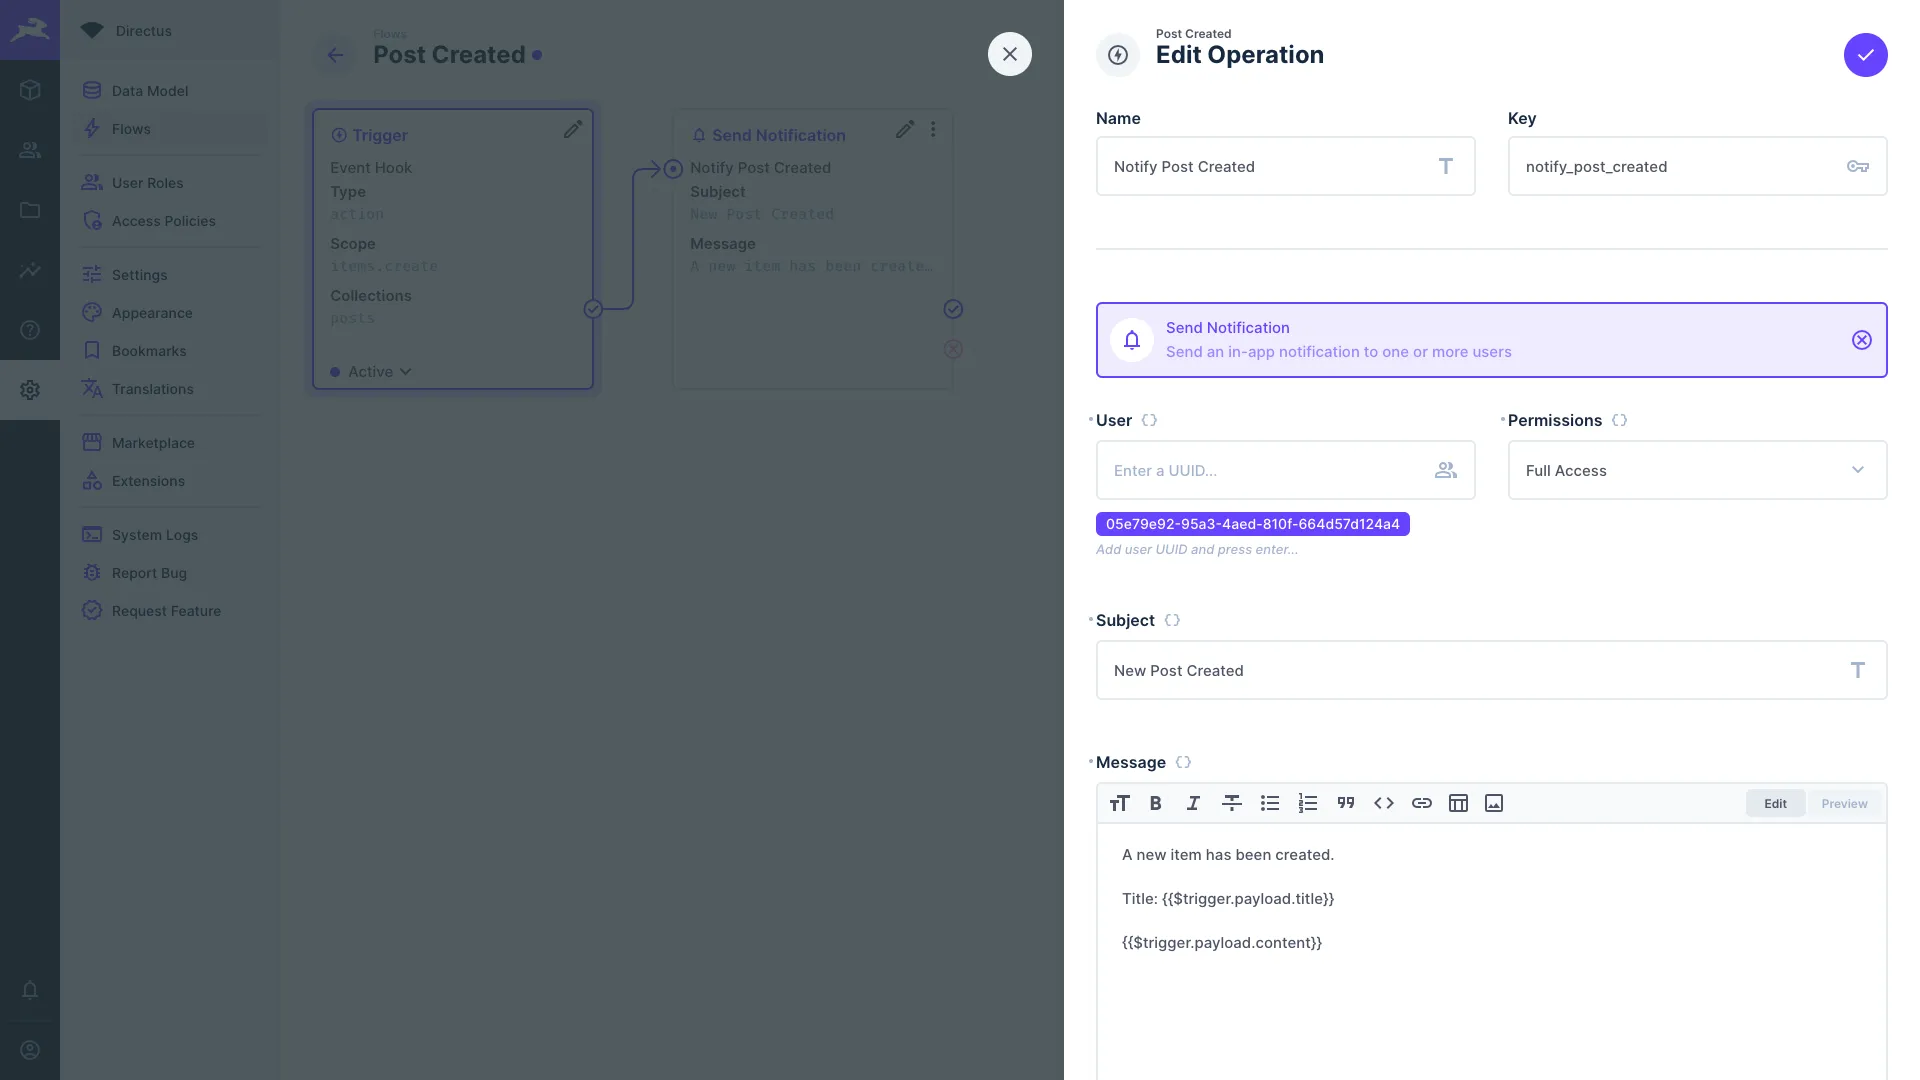
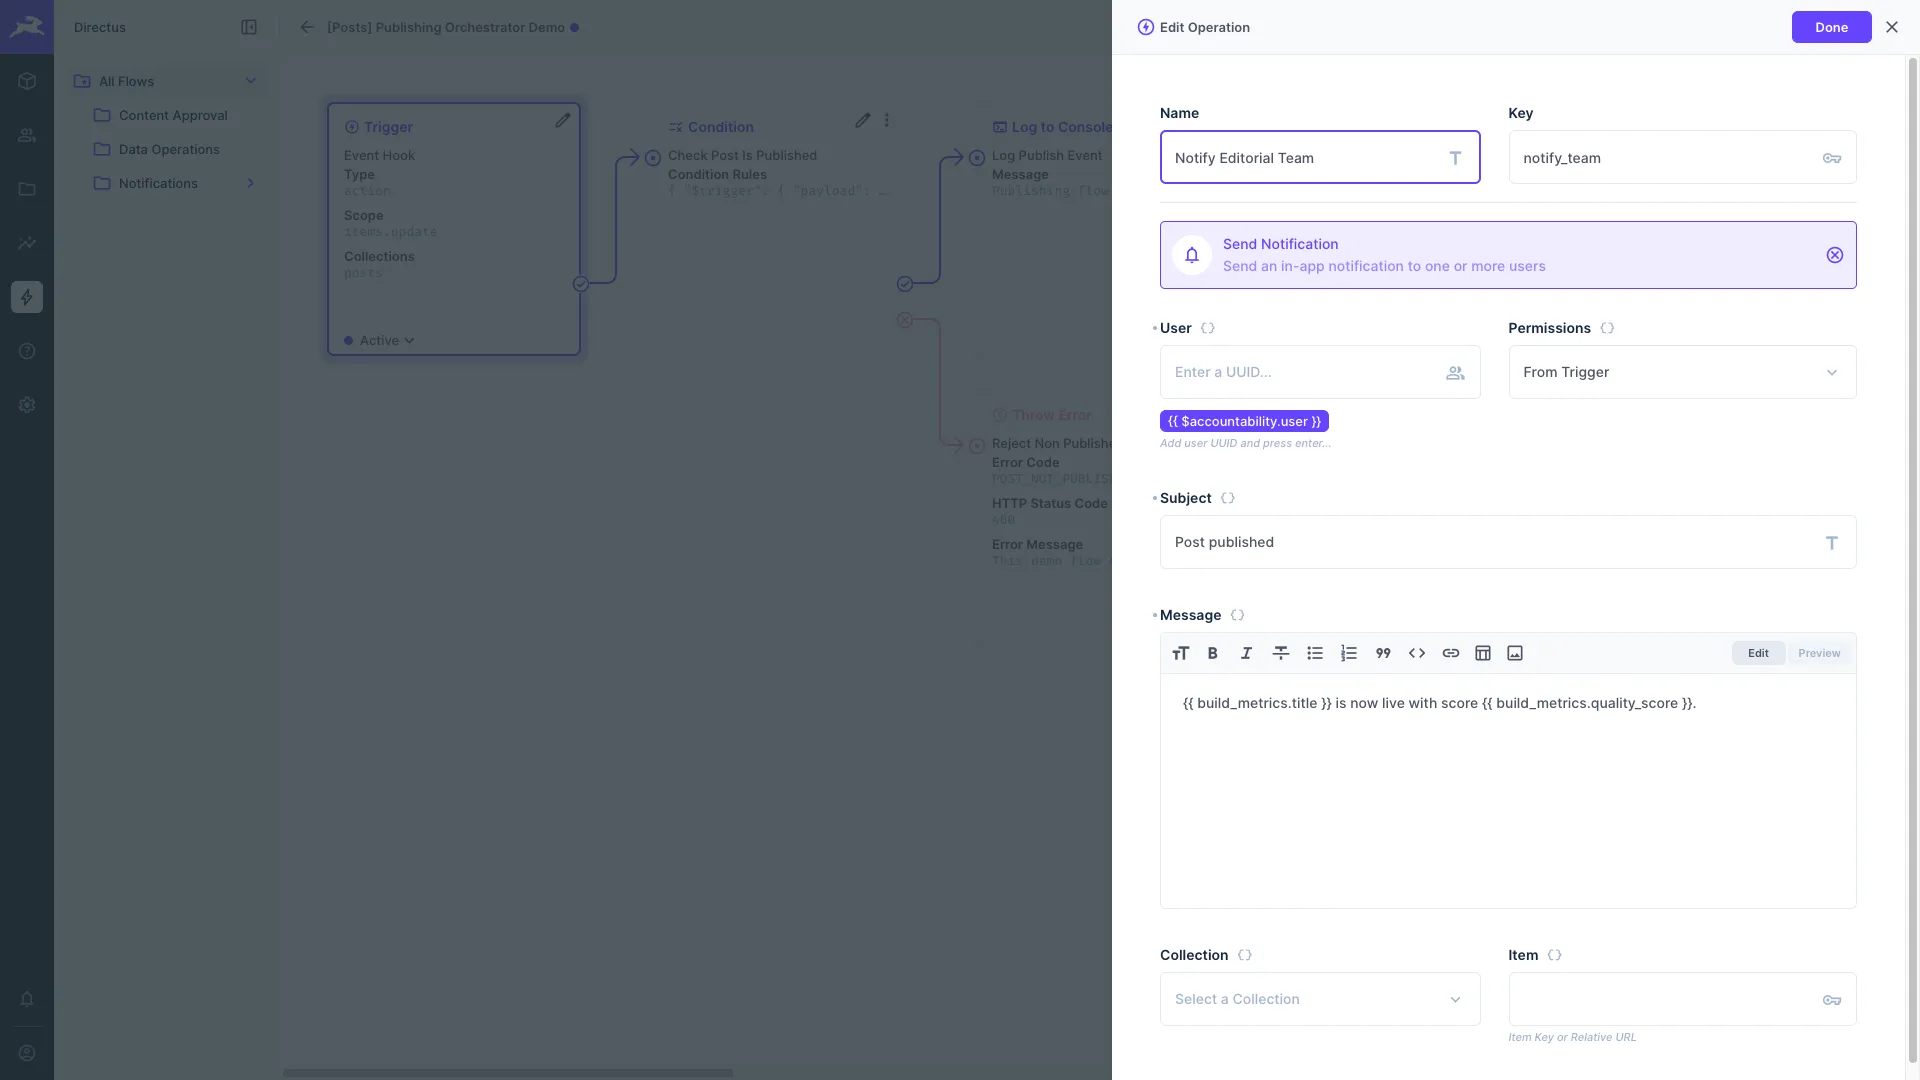
more screenshot updates and minor verbiage updates

diff --git a/content/getting-started/7.create-an-automation.md b/content/getting-started/7.create-an-automation.md
@@ -30,11 +30,11 @@ Navigate to the Flows module in the module bar. Click on :icon{name="material-sy
 
 Click on :icon{name="material-symbols:play-arrow-outline"} to open trigger setup. Select "Event Hook" as the trigger type and select "Action (Non-Blocking)". This will allow you to set up this flow to respond to when an event takes place by running an action that doesn't interrupt.
 
-Select `items.create` as the scope, and then check the "Posts" collection. This combination means that the operation will be triggered when an post is created. 
+Select `items.create` as the scope, and then select the "Posts" collection. This combination means that the operation will be triggered when a post is created.
 
 ## Configure an Operation
 
-![In the flow editor, the trigger connects to an operation. The operation configuration pane is open with a type of Send Notification.](/img/4c072da6-b396-47ad-85ff-f300e3eb9661.webp)
+![The operation configuration pane is open in the flow editor with a type of Send Notification.](/img/4c072da6-b396-47ad-85ff-f300e3eb9661.webp)
 
 Click on :icon{name="material-symbols:add-circle-outline"} on the trigger panel.
 

diff --git a/content/guides/06.flows/index.md b/content/guides/06.flows/index.md
@@ -19,7 +19,7 @@ Flows run arbitrary code with elevated accountability. See [Security Best Practi
 - **Icon** — Adds an icon to help quickly identify the flow.
 - **Description** — Sets a brief verbal description of the flow.
 - **Color** — Sets a color to help identify the flow.
-- **Folder** — Organizes the flow into a folder on the Flows page.
+- **Folder** — Shows which folder holds the flow on the Flows page. This is read-only. A new flow goes into whichever folder you have open when you create it, and you move it afterwards with **Move to Folder**. See [Manage Flows](/guides/flows/manage-flows#organize-flows-into-folders).
 - **Activity and Logs Tracking** — Selects whether the flow should be tracked in both the [activity log](/guides/auth/accountability) and the flow's logs, only in the activity log, or neither.
 
 ## Logs
